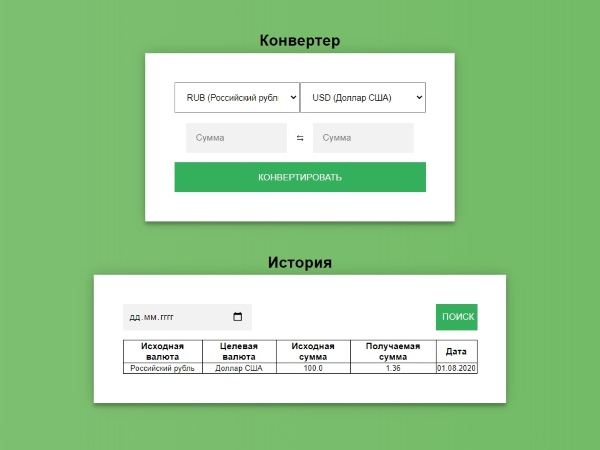
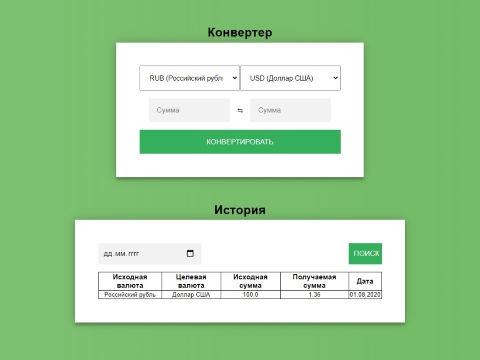
Update

diff --git a/README.md b/README.md
@@ -2,18 +2,18 @@
 
 **Описание:**
 
-Конвертация валют на основе курсов [ЦБРФ](http://www.cbr.ru/scripts/XML_daily.asp). Конвертация доступна после авторизации. Также введется история конвертаций.
+Конвертация валют на основе курсов [ЦБРФ](http://www.cbr.ru/scripts/XML_daily.asp). Конвертация доступна после авторизации. Есть история совершенных пользователем конвертаций.
 
 **Результаты:**
 
 <p align="center">
-  <img src="login.jpg">
+  <img width="480" height="240" src="login.jpg">
 </p>
 
 Авторизовавшись пользователь попадает на главную страницу.
 
 <p align="center">
-  <img src="converter.jpg">
+  <img width="480" height="360" src="converter.jpg">
 </p>
 
  При написании приложения использовалась Java 11, Spring Boot 2. Шаблонизатор Thymeleaf и СУБД PostgreSQL 12.
